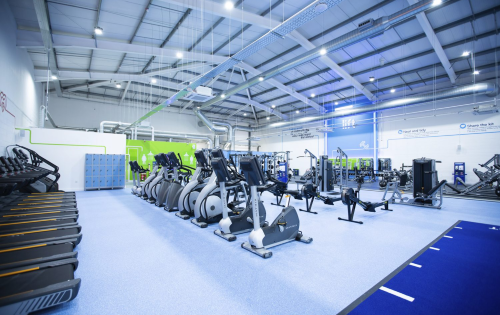
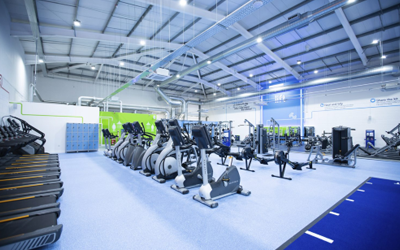
BaSP-W04-2023: Adding the styles for the main, features and about to section on the tablet dimension. Fixing and adding some div´s on the index.html file

diff --git a/Week-04/index.html b/Week-04/index.html
@@ -65,25 +65,28 @@
           </ul>
       </aside>
       <main>
-        <div class="main-block">
-          <h1>
-            MEGA ROCKET WEB
-          </h1>
-            <h2 id="subtitle">
-              WELCOME
-            </h2>
-              <p id="principal-paragraph">
-                Mega rocket web is a monthly management system for members and trainers
-                so they can dynamically sign up for their activities in the gym.
-              </p>
+        <div id="block">
+          <div class="main-block">
+            <h1>
+              MEGA ROCKET WEB
+            </h1>
+              <h2 id="subtitle">
+                WELCOME
+              </h2>
+                <p id="principal-paragraph">
+                  Mega rocket web is a monthly management system for members and trainers
+                  so they can dynamically sign up for their activities in the gym.
+                </p>
+          </div>
+            <span class="main-photo">
+              <img src="/assets/gim-1.png" alt="principal-gim"/>
+            </span>
         </div>
-          <span class="main-photo">
-            <img src="/assets/gim-1.png" alt="principal-gim"/>
-          </span>
         <section class="section-1">
           <h2 class="section-title">
             Features
           </h2>
+          <div class="block-features">
             <article class="features-article">
               <span class="features-title">
                 <img src="/assets/time-management.svg" alt="time-management-icon" class="features-icon"/>
@@ -108,6 +111,8 @@
                   possimus alias.
                 </p>
             </article>
+          </div>
+          <div class="block-features">
             <article class="features-article">
               <span class="features-title">
                 <img src="/assets/calendar.svg" alt="calendar-icon" class="features-icon"/>
@@ -132,23 +137,26 @@
                   possimus alias.
                 </p>
             </article>
+          </div>
         </section>
           <section class="section-2">
             <h2 class="section-title">
               About Mega rocket
             </h2>
               <div>
-                <img src="/assets/gim-2.png" alt="people-exercise" id="img-left"/>
-                  <article class="about-to-article-1">
+                <img src="/assets/gim-2.png" alt="people-exercise"/>
+                  <article class="about-to-article">
                     <p>
-                      Aenean ornare velit lacus, ac varius enim lorem ullamcorper dolore. Proin aliquam facilisis ante interdum. Sed nulla amet lorem feugiat tempus aliquam. Aenean ornare velit lacus, ac varius enim lorem ullamcorper dolore. Proin aliquam facilisis ante interdum. Sed nulla amet lorem feugiat tempus aliquam. Aenean ornare velit lacus, ac varius enim lorem ullamcorper dolore. Proin aliquam facilisis ante interdum. Sed nulla amet lorem feugiat tempus aliquam.
+                      Lorem Ipsum is simply dummy text of the printing and typesetting industry. Lorem Ipsum has been the industry's standard dummy text ever since the 1500s.Lorem Ipsum is simply dummy text of the printing and typesetting industry. Lorem Ipsum has been the industry's standard dummy text ever
                     </p>
                     <button class="btn-learn-more">Learn More</button>
                   </article>
-                  <img src="/assets/gim-3.png" alt="gim-machines" id="img-right"/>
-                  <article class="about-to-article-2">
+              </div>
+              <div>
+                  <img src="/assets/gim-3.png" alt="gim-machines"/>
+                  <article class="about-to-article">
                     <p>
-                      Aenean ornare velit lacus, ac varius enim lorem ullamcorper dolore. Proin aliquam facilisis ante interdum. Sed nulla amet lorem feugiat tempus aliquam. Aenean ornare velit lacus, ac varius enim lorem ullamcorper dolore. Proin aliquam facilisis ante interdum. Sed nulla amet lorem feugiat tempus aliquam.
+                      Lorem Ipsum is simply dummy text of the printing and typesetting industry. Lorem Ipsum has been the industry's standard dummy text ever since the 1500s.Lorem Ipsum is simply dummy text of the printing and typesetting industry. Lorem Ipsum has been the industry's standard dummy text ever
                     </p>
                     <button class="btn-learn-more">Learn More</button>
                   </article>

diff --git a/Week-04/css/content.css b/Week-04/css/content.css
@@ -1,26 +1,10 @@
 /* First section of the Main */
 
-main {
-    position: relative;
-    display: flex;
-    flex-direction: column;
-    align-items: center;
-    margin: 15px;
-    z-index: 1;
-}
-
 .main-block {
     display: flex;
     flex-direction: column;
     text-align: center;
     margin: 10px 0px 20px;
-}
-
-h1 {
-    text-align: center;
-    font-size: 30px ;
-    font-weight: 700;
-    line-height: 35px;
 }
 
 #subtitle {
@@ -33,8 +17,15 @@ h1 {
     font-weight: 400;
 }
 
+.main-photo {
+    display: flex;
+    height: 50%;
+}
+
 .main-photo img {
-    width: 352px;
+    display: flex;
+    flex-direction: column;
+    width: 125%;
     height: 192px;
 }
 
@@ -84,6 +75,7 @@ h1 {
     font-size: 12px;
     font-weight: 400;
     line-height: 18px;
+    width: 100%;
 }
 
 /* About to section */
@@ -104,26 +96,17 @@ h1 {
     line-height: 24px;
 }
 
-.section-2 #img-left {
-    width: 279px;
-    height: 172px;
+.section-2 img {
+    width: 70%;
+    height: 70%;
 }
 
-.section-2 .about-to-article-1 {
-    width: 279px;
+.section-2 .about-to-article {
+    width: 70%;
     padding: 15px 0px;
     text-align: center;
-}
-
-.section-2 #img-right {
-    width: 279px;
-    height: 174px;
-}
-
-.section-2 .about-to-article-2 {
-    width: 279px;
-    padding: 15px 0px;
-    text-align: center;
+    font-size: 15px;
+    font-weight: 400 ;
 }
 
 .btn-learn-more {
@@ -139,27 +122,6 @@ h1 {
 }
 
 /* Form section */
-
-form {
-    display: flex;
-    flex-direction: column;
-}
-
-input, select, textarea, option {
-    width: 329px;
-    padding: 10px 12px;
-    border: 2px solid #373867;
-    border-radius: 4px;
-}
-
-select {
-    width: 357px;
-}
-
-textarea {
-    height: 191.6px;
-}
-
 /* Compound selectors of the Form section */
     /* First block of the Form section */
 
@@ -192,7 +154,7 @@ form .label-form-2 {
     display: flex;
     justify-content: center;
     align-self: end;
-    width: 123px;
+    width: 34%;
     margin-top: 10px;
     border: none;
     background-color: #AACE9B;
@@ -229,31 +191,17 @@ form .label-form-2 {
 .activities-block {
     display: flex;
     flex-direction: row;
-    justify-content: space-evenly;
+    justify-content: space-between;
     flex-wrap: wrap;
-    padding: 15px;
+    padding: 0% 16% 11px 15%;
 }
 
 .activities-list img {
-    width: 336px;
-    height: 187px;
+    width: 102%;
+    height: 50%;
 }
 
 /* Table section */
-
-table {
-    position: relative;
-    display: block;
-    padding: 10px 0;
-    font-size: 14px;
-    font-weight: 600;
-}
-
-tbody{
-    position: relative;
-    padding: 10px;
-}
-
 /* Compound selectors of the Table section */
 
 .membership-table-grey {
@@ -277,3 +225,61 @@ tbody{
     background-color: #fff;
     text-align: center;
 }
+
+@media (min-width: 601px) {
+    #block {
+        display: flex;
+    }
+
+    .main-block {
+        align-items: center;
+        justify-content: center;
+        width: 50%;
+        }
+
+        #subtitle {
+            display: flex;
+            flex-direction: column;
+            color: #49A37B;
+        }
+        .main-photo img {
+            display: flex;
+            width: 80%;
+            height: 70%;
+        }
+
+        .features-article {
+            display: flex;
+            width: 50%;
+            padding: 0px 20px;
+        }
+
+        .block-features {
+            display: flex;
+        }
+
+        .section-2 div {
+            display: flex;
+            flex-direction: row;
+            justify-content: space-around;
+        }
+
+        .section-2 div:nth-child(3) {
+            display: flex;
+            flex-direction: row-reverse;
+        }
+
+        .section-2 img {
+            width: 40%;
+            height: 40%;
+        }
+
+        .section-2 .about-to-article {
+            width: 50%;
+            font-size: 12px;
+        }
+
+        .btn-learn-more {
+            display: none;
+        }
+    }

diff --git a/Week-04/css/styles.css b/Week-04/css/styles.css
@@ -5,6 +5,63 @@ body {
     color: #373867;
 }
 
+/* Main */
+
+main {
+    position: relative;
+    display: flex;
+    padding: 92px 0 20px;
+    flex-direction: column;
+    align-items: center;
+    margin: 15px;
+    z-index: 1;
+}
+
+h1 {
+    text-align: center;
+    font-size: 30px ;
+    font-weight: 700;
+    line-height: 35px;
+}
+
+/* Form section */
+
+form {
+    display: flex;
+    flex-direction: column;
+    width: 90%;
+}
+
+input, select, textarea, option {
+    width: 92%;
+    padding: 10px 12px;
+    border: 2px solid #373867;
+    border-radius: 4px;
+}
+
+select {
+    width: auto;
+}
+
+textarea {
+    height: 191.6px;
+}
+
+/* Table section */
+
+table {
+    position: relative;
+    display: block;
+    padding: 10px 0;
+    font-size: 14px;
+    font-weight: 600;
+}
+
+tbody{
+    position: relative;
+    padding: 10px;
+}
+
 
 
 

diff --git a/Week-04/css/header.css b/Week-04/css/header.css
@@ -1,7 +1,8 @@
 header {
     display: flex;
     justify-content: space-between;
-    position: sticky;
+    position: fixed;
+    width: 100%;
     top: 0;
     background-color: #373867;
     z-index: 3;
